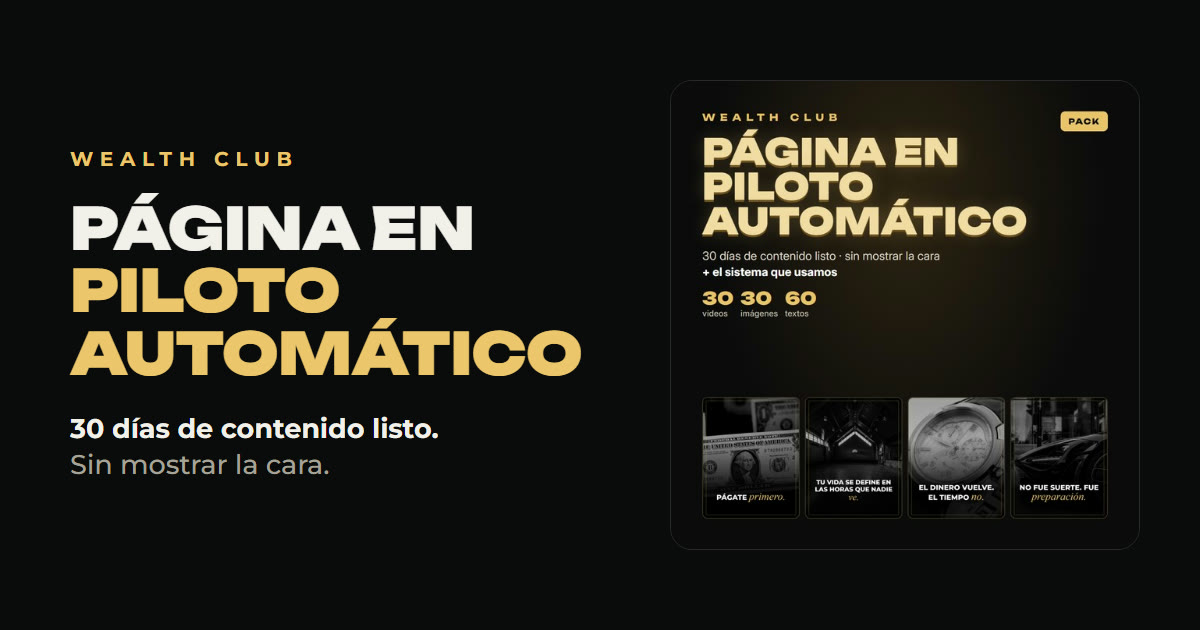
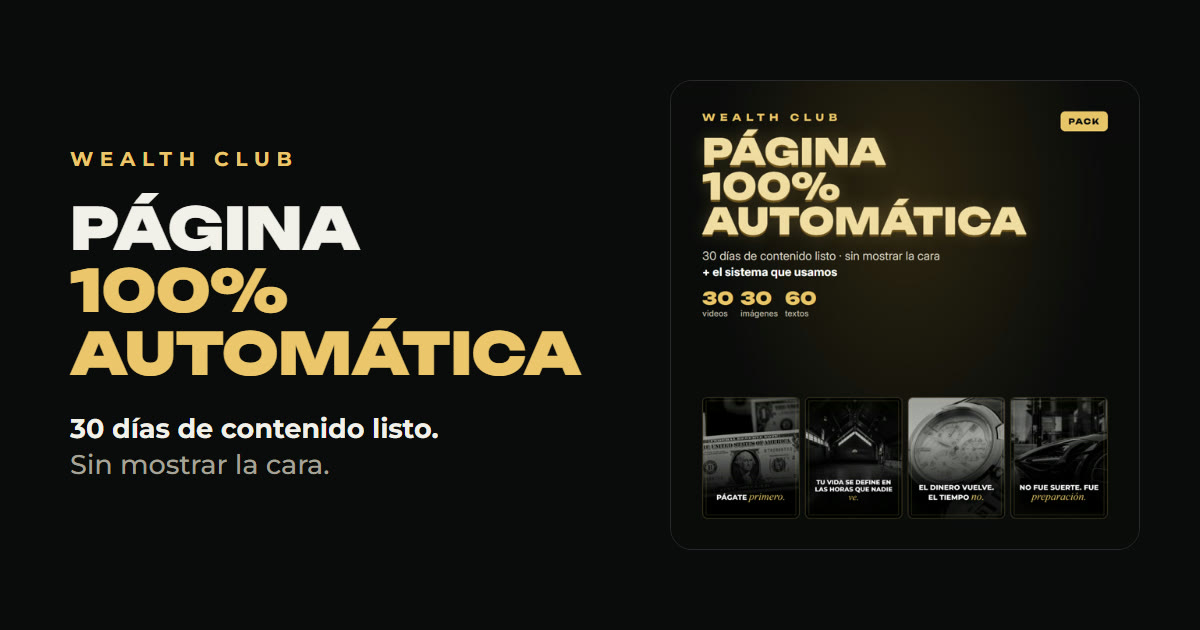
Add files via upload

diff --git a/piloto/index.html b/piloto/index.html
@@ -3,12 +3,12 @@
 <head>
 <meta charset="utf-8">
 <meta name="viewport" content="width=device-width, initial-scale=1">
-<title>Página en Piloto Automático · Wealth Club</title>
+<title>Página 100% Automática · Wealth Club</title>
 <meta name="description" content="30 días de contenido listo para una página de dinero y mentalidad, sin mostrar la cara. 30 videos, 30 imágenes, descripciones, calendario y guía.">
 <meta name="theme-color" content="#0b0b0c">
 <meta property="og:type" content="website">
 <meta property="og:url" content="https://wealtthclub.github.io/piloto/">
-<meta property="og:title" content="Página en Piloto Automático">
+<meta property="og:title" content="Página 100% Automática">
 <meta property="og:description" content="30 días de contenido listo para tu página, sin mostrar la cara.">
 <meta property="og:image" content="https://wealtthclub.github.io/piloto/og.jpg">
 <meta property="og:image:width" content="1200">
@@ -227,7 +227,7 @@
 <section>
   <div class="wrap">
     <div class="eyebrow">Así de simple</div>
-    <h2>Tu página en <span class="oro">piloto automático</span></h2>
+    <h2>Tu página <span class="oro">100% automática</span></h2>
     <ol class="pasos">
       <li><b>Descargás</b><span>Te llega al email al instante.</span></li>
       <li><b>Programás</b><span>El mes entero en una hora.</span></li>
@@ -240,7 +240,7 @@
 <section id="precio">
   <div class="wrap">
     <div class="precio">
-      <div class="eyebrow" style="margin:0">Página en Piloto Automático</div>
+      <div class="eyebrow" style="margin:0">Página 100% Automática</div>
       <div class="valor">USD 9,90</div>
       <div class="ars">Pago único · se cobra en tu moneda</div>
       <ul class="incluye">
@@ -272,7 +272,7 @@
 </section>
 
 <footer>
-  <div class="wrap">Wealth Club · Página en Piloto Automático<br>Tomas y fotos de Pexels. Pago procesado por Hotmart. Este sitio no forma parte de Facebook ni de Meta.</div>
+  <div class="wrap">Wealth Club · Página 100% Automática<br>Tomas y fotos de Pexels. Pago procesado por Hotmart. Este sitio no forma parte de Facebook ni de Meta.</div>
 </footer>
 
 <div class="fija" id="fija">
